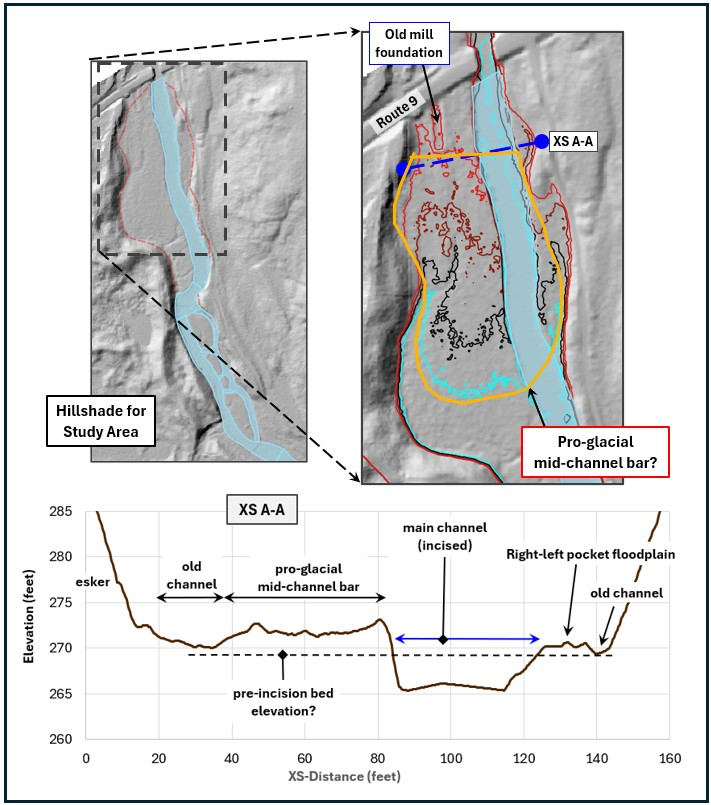
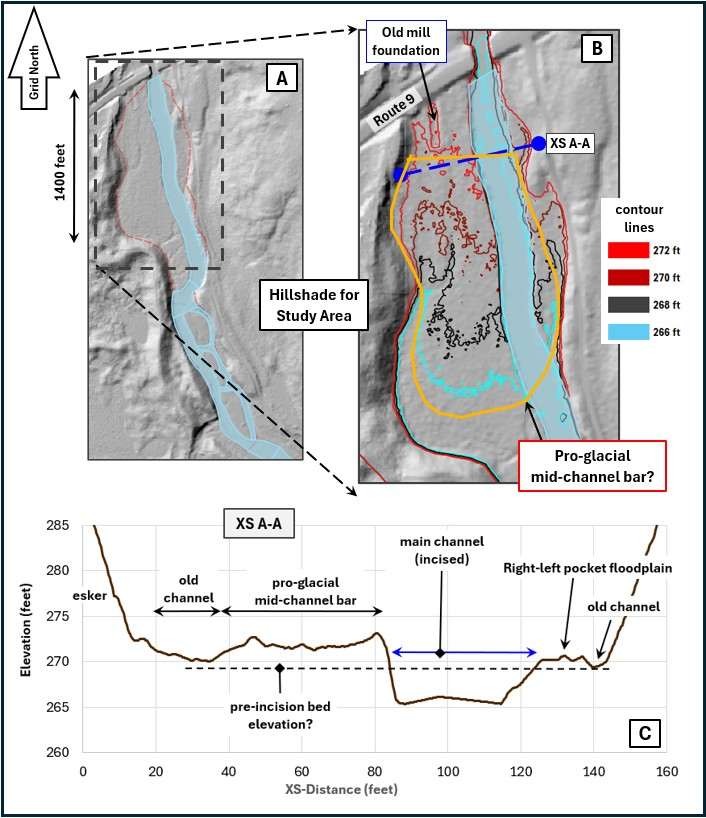
updated Fig 2

diff --git a/HW9/index.html b/HW9/index.html
@@ -66,13 +66,13 @@
 
         <!-- <hr> ======================================================================== -->
  
-        <h3 style="margin-top: -20px; margin-left: 30px; margin-bottom: 10px;">
+        <h3 style="margin-top: -60px; margin-left: 30px; margin-bottom: 10px;">
             Floodplain Feeatures:</h3>    
 
         <!-- ================== -->
         <h4 style="margin-top: 0px; margin-left: 30px; margin-bottom: 2px;">
             Figure 2. Pro-glacial mid channel bar or alluvial fan?</h4>
-        <img src="images/fig2.jpg" alt="img2" style="margin-top: 0px; margin-left: 30px; margin-bottom: 20px; height: 400px"/><br>
+        <img src="images/fig2.jpg" alt="img2" style="margin-top: 0px; margin-left: 30px; margin-bottom: 20px; height: 1000px"/><br>
         
         <!--h4 style="margin-top: 0px; margin-left: 30px; margin-bottom: 2px;">
             Figure 2.b. Riverscape: River Delta</h4>
